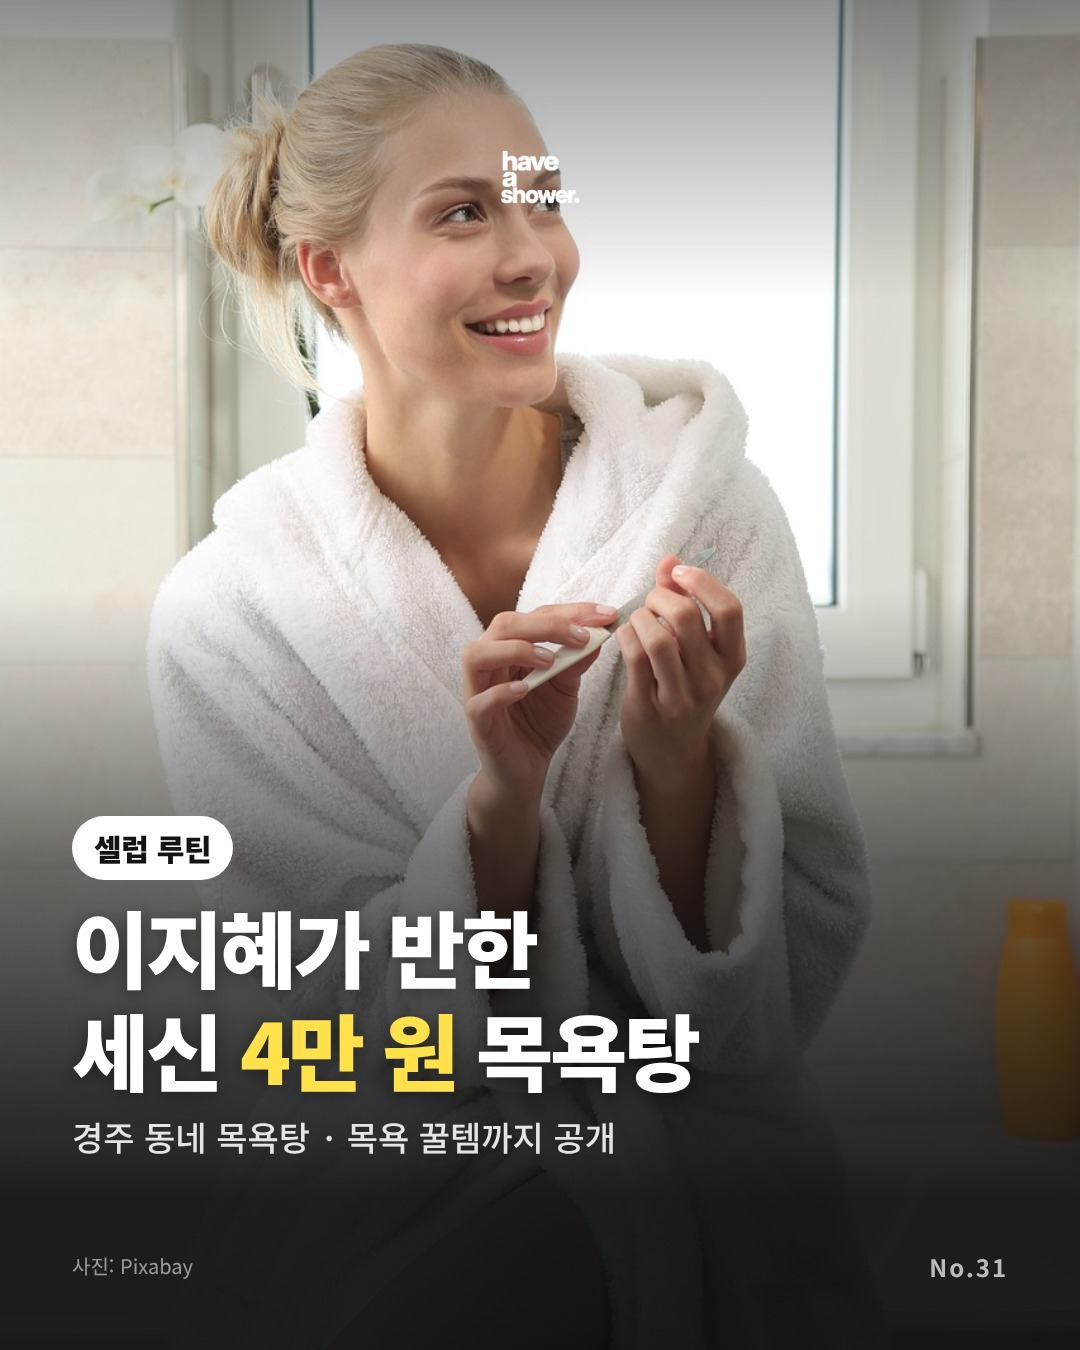
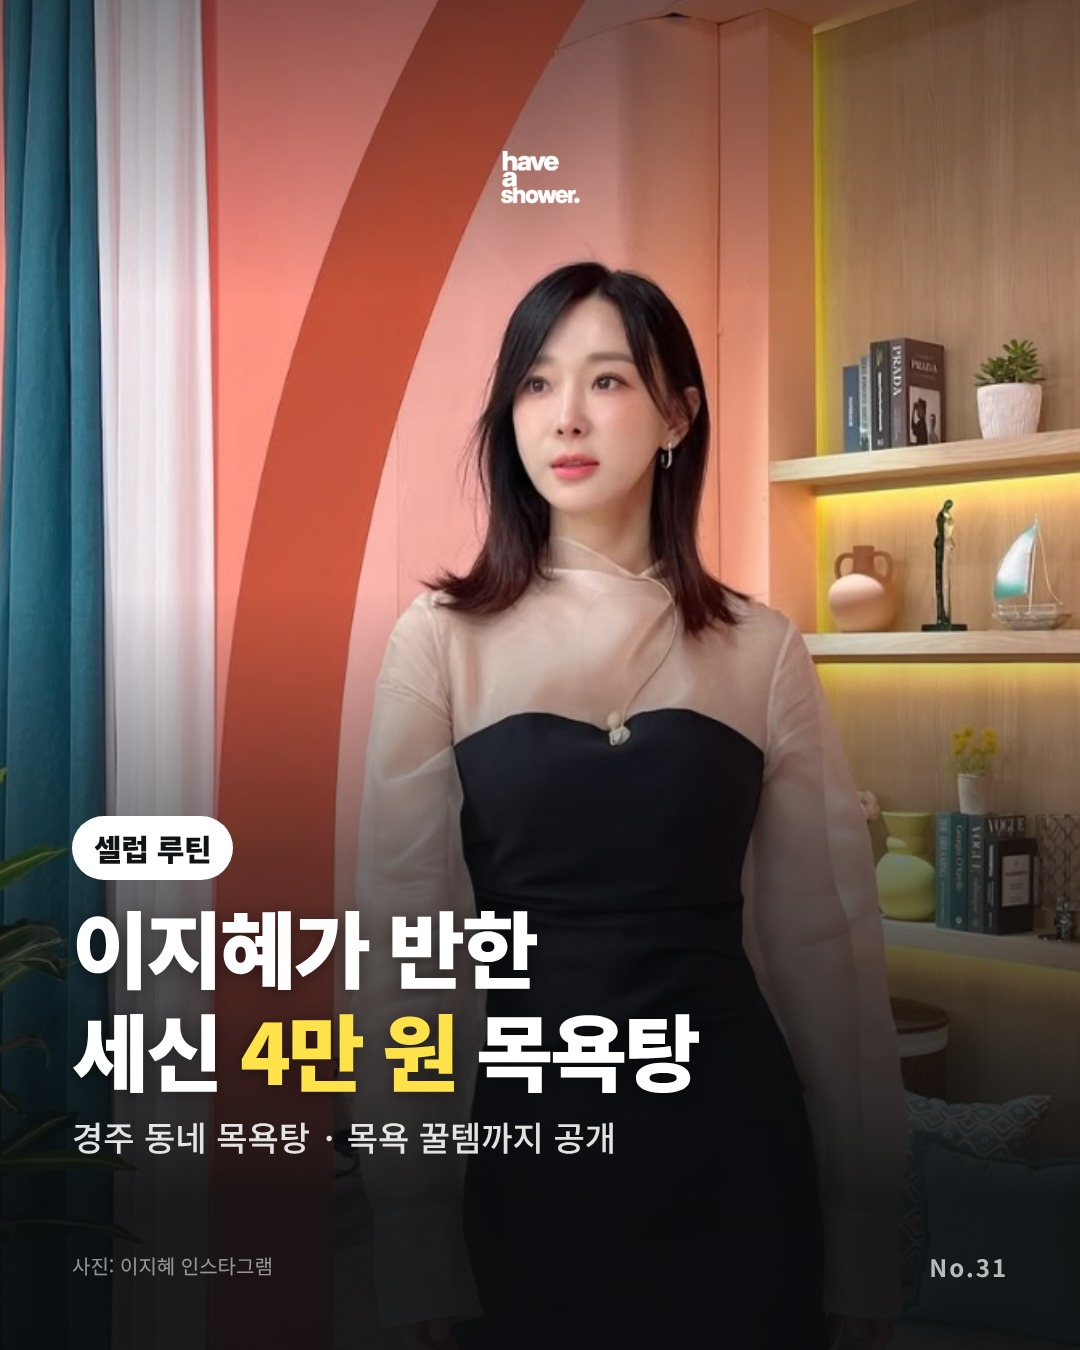
No.31 표지 이지혜 인스타 사진으로 교체
Claude-Session: https://claude.ai/code/session_01MYgG3iP5HzrXvSwnHGZcEi

diff --git a/cardnews/project/P31-6-Order.dc.html b/cardnews/project/P31-6-Order.dc.html
@@ -22,20 +22,20 @@ a{color:inherit}
 <h2 style="margin: 0; font-family: 'Gothic A1', 'Noto Sans KR', sans-serif; font-size: 62px; font-weight: 800; line-height: 1.25; letter-spacing: -0.02em; white-space: pre-line">이지혜처럼
 <span style="color: {{accent}}">목욕탕 200%</span> 즐기기</h2>
 
+<div style="height: 220px; border-radius: 22px; overflow: hidden; background: #FFFFFF; flex-shrink: 0"><img src="/_blob/9fa033bca3e466784a3eb0500b1535be" alt="" style="width: 100%; height: 100%; object-fit: cover; object-position: 50% 20%; display: block"></div>
 <div style="display: flex; flex-direction: column; gap: 18px"><div style="display: flex; align-items: center; gap: 28px; background: #FFFFFF; border-radius: 20px; padding: 26px 36px">
 <div style="font-family: 'Gothic A1', 'Noto Sans KR', sans-serif; font-size: 54px; font-weight: 800; color: {{accent}}; width: 50px; flex-shrink: 0">1</div>
-<div style="display: flex; flex-direction: column; gap: 6px"><div style="font-family: 'Gothic A1', 'Noto Sans KR', sans-serif; font-size: 36px; font-weight: 800">화장 지우고 샤워 먼저</div><div style="font-size: 28px; line-height: 1.4; color: #5F646B">탕에 들어가기 전에 – 이지혜도 이것부터</div></div>
+<div style="display: flex; flex-direction: column; gap: 6px"><div style="font-family: 'Gothic A1', 'Noto Sans KR', sans-serif; font-size: 34px; font-weight: 800">화장 지우고 샤워 먼저</div><div style="font-size: 28px; line-height: 1.4; color: #5F646B">탕에 들어가기 전에 – 이지혜도 이것부터</div></div>
 </div><div style="display: flex; align-items: center; gap: 28px; background: #FFFFFF; border-radius: 20px; padding: 26px 36px">
 <div style="font-family: 'Gothic A1', 'Noto Sans KR', sans-serif; font-size: 54px; font-weight: 800; color: {{accent}}; width: 50px; flex-shrink: 0">2</div>
-<div style="display: flex; flex-direction: column; gap: 6px"><div style="font-family: 'Gothic A1', 'Noto Sans KR', sans-serif; font-size: 36px; font-weight: 800">탕에서 몸 불리기</div><div style="font-size: 28px; line-height: 1.4; color: #5F646B">“야, 진짜 시원해!”</div></div>
+<div style="display: flex; flex-direction: column; gap: 6px"><div style="font-family: 'Gothic A1', 'Noto Sans KR', sans-serif; font-size: 34px; font-weight: 800">탕에서 몸 불리기</div><div style="font-size: 28px; line-height: 1.4; color: #5F646B">“야, 진짜 시원해!”</div></div>
 </div><div style="display: flex; align-items: center; gap: 28px; background: #FFFFFF; border-radius: 20px; padding: 26px 36px">
 <div style="font-family: 'Gothic A1', 'Noto Sans KR', sans-serif; font-size: 54px; font-weight: 800; color: {{accent}}; width: 50px; flex-shrink: 0">3</div>
-<div style="display: flex; flex-direction: column; gap: 6px"><div style="font-family: 'Gothic A1', 'Noto Sans KR', sans-serif; font-size: 36px; font-weight: 800">세신 → 마사지 → 오이 팩</div><div style="font-size: 28px; line-height: 1.4; color: #5F646B">빨개지면 멈추기</div></div>
+<div style="display: flex; flex-direction: column; gap: 6px"><div style="font-family: 'Gothic A1', 'Noto Sans KR', sans-serif; font-size: 34px; font-weight: 800">세신 → 마사지 → 오이 팩</div><div style="font-size: 28px; line-height: 1.4; color: #5F646B">빨개지면 멈추기</div></div>
 </div><div style="display: flex; align-items: center; gap: 28px; background: #FFFFFF; border-radius: 20px; padding: 26px 36px">
 <div style="font-family: 'Gothic A1', 'Noto Sans KR', sans-serif; font-size: 54px; font-weight: 800; color: {{accent}}; width: 50px; flex-shrink: 0">4</div>
-<div style="display: flex; flex-direction: column; gap: 6px"><div style="font-family: 'Gothic A1', 'Noto Sans KR', sans-serif; font-size: 36px; font-weight: 800">나와서 바로 보습</div><div style="font-size: 28px; line-height: 1.4; color: #5F646B">뒤꿈치는 크림 한 번 더</div></div>
+<div style="display: flex; flex-direction: column; gap: 6px"><div style="font-family: 'Gothic A1', 'Noto Sans KR', sans-serif; font-size: 34px; font-weight: 800">나와서 바로 보습</div><div style="font-size: 28px; line-height: 1.4; color: #5F646B">뒤꿈치는 크림 한 번 더</div></div>
 </div></div>
-<div style="font-size: 27px; line-height: 1.5; color: #5F646B">보너스: 목욕 끝나고 경주 명물 ‘안강 불고기’ – “사우나에서 안강 불고기 먹는 게 화룡점정”</div>
 <div style="margin-top: auto; display: flex; justify-content: space-between; gap: 24px; font-size: 23px; color: #5F646B">
 <div>@have.a.shower</div>
 <div style="text-align: right">출처: 유튜브 ‘밉지않은 관종언니’(2026.11.19) · 인사이트(11.20) · MK스포츠·OSEN(11.19)</div>

diff --git a/cardnews/project/P31-1-Cover.dc.html b/cardnews/project/P31-1-Cover.dc.html
@@ -15,7 +15,7 @@ a{color:inherit}
 </style>
 </helmet>
 <div style="position: relative; width: 1080px; height: 1350px; overflow: hidden; background: #111315; color: #FFFFFF; font-family: 'Noto Sans KR', 'Apple SD Gothic Neo', sans-serif; word-break: keep-all">
-<img src="/_blob/9fa033bca3e466784a3eb0500b1535be" alt="" style="position: absolute; left: 0; top: 0; width: 1080px; height: 1350px; object-fit: cover; object-position: 50% 30%; display: block">
+<img src="/_blob/9c96b6e7524006b308ecdda423c87fd6" alt="" style="position: absolute; left: 0; top: 0; width: 1080px; height: 1350px; object-fit: cover; object-position: 50% 0%; display: block">
 <div style="position: absolute; left: 0; right: 0; top: 0; height: 300px; background: linear-gradient(180deg, rgba(10,12,14,0.45) 0%, rgba(10,12,14,0) 100%)"></div>
 <div style="position: absolute; left: 0; right: 0; bottom: 0; height: 760px; background: linear-gradient(180deg, rgba(10,12,14,0) 0%, rgba(10,12,14,0.55) 35%, rgba(10,12,14,0.92) 80%)"></div>
 <img src="/_blob/11234708ce8dd667817c59a15d245c81" alt="have a shower 로고" style="position: absolute; left: 50%; top: 150px; transform: translateX(-50%); height: 54px; display: block">
@@ -23,7 +23,7 @@ a{color:inherit}
 <h1 style="position: absolute; left: 72px; right: 72px; bottom: 250px; margin: 0; font-family: 'Noto Sans KR', 'Apple SD Gothic Neo', sans-serif; font-size: 84px; font-weight: 900; line-height: 1.22; letter-spacing: -0.04em; color: #FFFFFF; text-shadow: 0 3px 18px rgba(0,0,0,0.45); white-space: pre-line">이지혜가 반한
 세신 <span style="color: #FFE14A">4만 원</span> 목욕탕</h1>
 <div style="position: absolute; left: 72px; right: 72px; bottom: 190px; font-size: 34px; font-weight: 500; line-height: 1.35; color: rgba(255,255,255,0.88)">경주 동네 목욕탕 · 목욕 꿀템까지 공개</div>
-<div style="position: absolute; left: 72px; bottom: 70px; font-size: 20px; color: rgba(255,255,255,0.55)">사진: Pixabay</div>
+<div style="position: absolute; left: 72px; bottom: 70px; font-size: 20px; color: rgba(255,255,255,0.55)">사진: 이지혜 인스타그램</div>
 <div style="position: absolute; right: 72px; bottom: 66px; font-size: 24px; font-weight: 700; letter-spacing: 0.08em; color: rgba(255,255,255,0.7)">No.31</div>
 </div>
 </x-dc>

diff --git a/cardnews/make_p30_p31.py b/cardnews/make_p30_p31.py
@@ -17,7 +17,7 @@ PICK = {
     'cover30': 'asleep2_1.jpg', 'sleep30': 'asleep_1.jpg', 'mag': 'product_mag_2.jpg', 'mag_box': 'product_mag_1.webp',
     'drbear': 'product_drbear_1.jpg', 'almond': 'nut_2.jpg', 'pumpkin': 'cashew_2.jpg',
     'spinach': 'spinachleaf_3.jpg', 'choco': 'spinach_3.jpg',
-    'cover31': 'bathwoman_1.jpg', 'bath': 'bucket_3.jpg', 'cucumber': 'cucumber_1.jpg', 'salt': 'salt_3.jpg',
+    'cover31': 'leejihye_ig.png', 'robe': 'bathwoman_1.jpg', 'bath': 'bucket_3.jpg', 'cucumber': 'cucumber_1.jpg', 'salt': 'salt_3.jpg',
     'towel': 'bathhouse_3.jpg', 'foot': 'foot_2.jpg', 'cream': 'scrub_1.jpg', 'gounbal': 'product_gounbal_1.jpg',
     'bucket': 'bucket_1.jpg',
 }
@@ -121,7 +121,7 @@ C31 = {
     'C': (f'“여기서 {yl("명인")}을\n만났다”', '이지혜가 다시 가겠다고 한 경주 목욕탕'),
 }
 t, s = C31[pick.get('31', 'A')]
-write('P31-1-Cover.dc.html', '이지혜 목욕탕 커버', cover3(31, IMG.get('cover31', ''), '50% 30%', '셀럽 루틴', t, s, '사진: Pixabay'))
+write('P31-1-Cover.dc.html', '이지혜 목욕탕 커버', cover3(31, IMG.get('cover31', ''), '50% 0%', '셀럽 루틴', t, s, '사진: 이지혜 인스타그램'))
 
 write('P31-2-Where.dc.html', '어디', page(2, 7, f'세신 받으세요?\n{acc("혼자")} 미세요?', f'''
 {photo('bath', 380, '50% 55%')}
@@ -149,9 +149,9 @@ write('P31-5-Kit.dc.html', '목욕 꿀템', page(5, 7, f'제작진과 꺼낸\n{a
 {card(kit)}''', '사진: Pixabay · 제품 사진은 참고용 · ' + S31.replace('출처: ', '')))
 
 write('P31-6-Order.dc.html', '순서', page(6, 7, f'이지혜처럼\n{acc("목욕탕 200%")} 즐기기', f'''
+{photo('robe', 220, '50% 20%')}
 {steprows([('1', '화장 지우고 샤워 먼저', '탕에 들어가기 전에 – 이지혜도 이것부터'), ('2', '탕에서 몸 불리기', '“야, 진짜 시원해!”'),
-           ('3', '세신 → 마사지 → 오이 팩', '빨개지면 멈추기'), ('4', '나와서 바로 보습', '뒤꿈치는 크림 한 번 더')], 36)}
-<div style="font-size: 27px; line-height: 1.5; color: #5F646B">보너스: 목욕 끝나고 경주 명물 ‘안강 불고기’ – “사우나에서 안강 불고기 먹는 게 화룡점정”</div>''', S31))
+           ('3', '세신 → 마사지 → 오이 팩', '빨개지면 멈추기'), ('4', '나와서 바로 보습', '뒤꿈치는 크림 한 번 더')], 34)}''', S31))
 
 write('P31-7-Closing.dc.html', '마무리', closing('주말 목욕탕 체크리스트', crow([
     '입장 전: 화장 지우고 샤워부터',

diff --git a/briefs/2026-11-21.md b/briefs/2026-11-21.md
@@ -142,3 +142,4 @@
 - 사진: 사진 받기 워크플로 3번(`briefs/images/2026-11-21/`) – 자는 사람 em0rix·Engin_Akyurt, 목욕 가운 089photoshootings 등. 제품: 다이소몰·위키트리(다이소 제공) 마그네슘, 고운발 크림(11번가). 이지혜 본인 사진은 안 씀(캡션에 이미지컷 표기).
 - 캔버스(Design 아티팩트) 반영은 아직.
 - 14:34 대표: 오늘은 **15:00 / 21:00** 게시 → 예약: 14:58 No.30 마그네슘 / 20:58 No.31 이지혜 목욕탕 (이 세션 알림 → publish=true 1번). 스레드는 안 올림.
+- 14:50 대표: No.31 표지를 **이지혜 인스타그램 사진**(대표 제공)으로 교체, 목욕 가운 사진은 6장(즐기는 순서)으로 옮김. 6장 '안강 불고기' 보너스 줄은 자리 부족으로 빼고 캡션에만.
